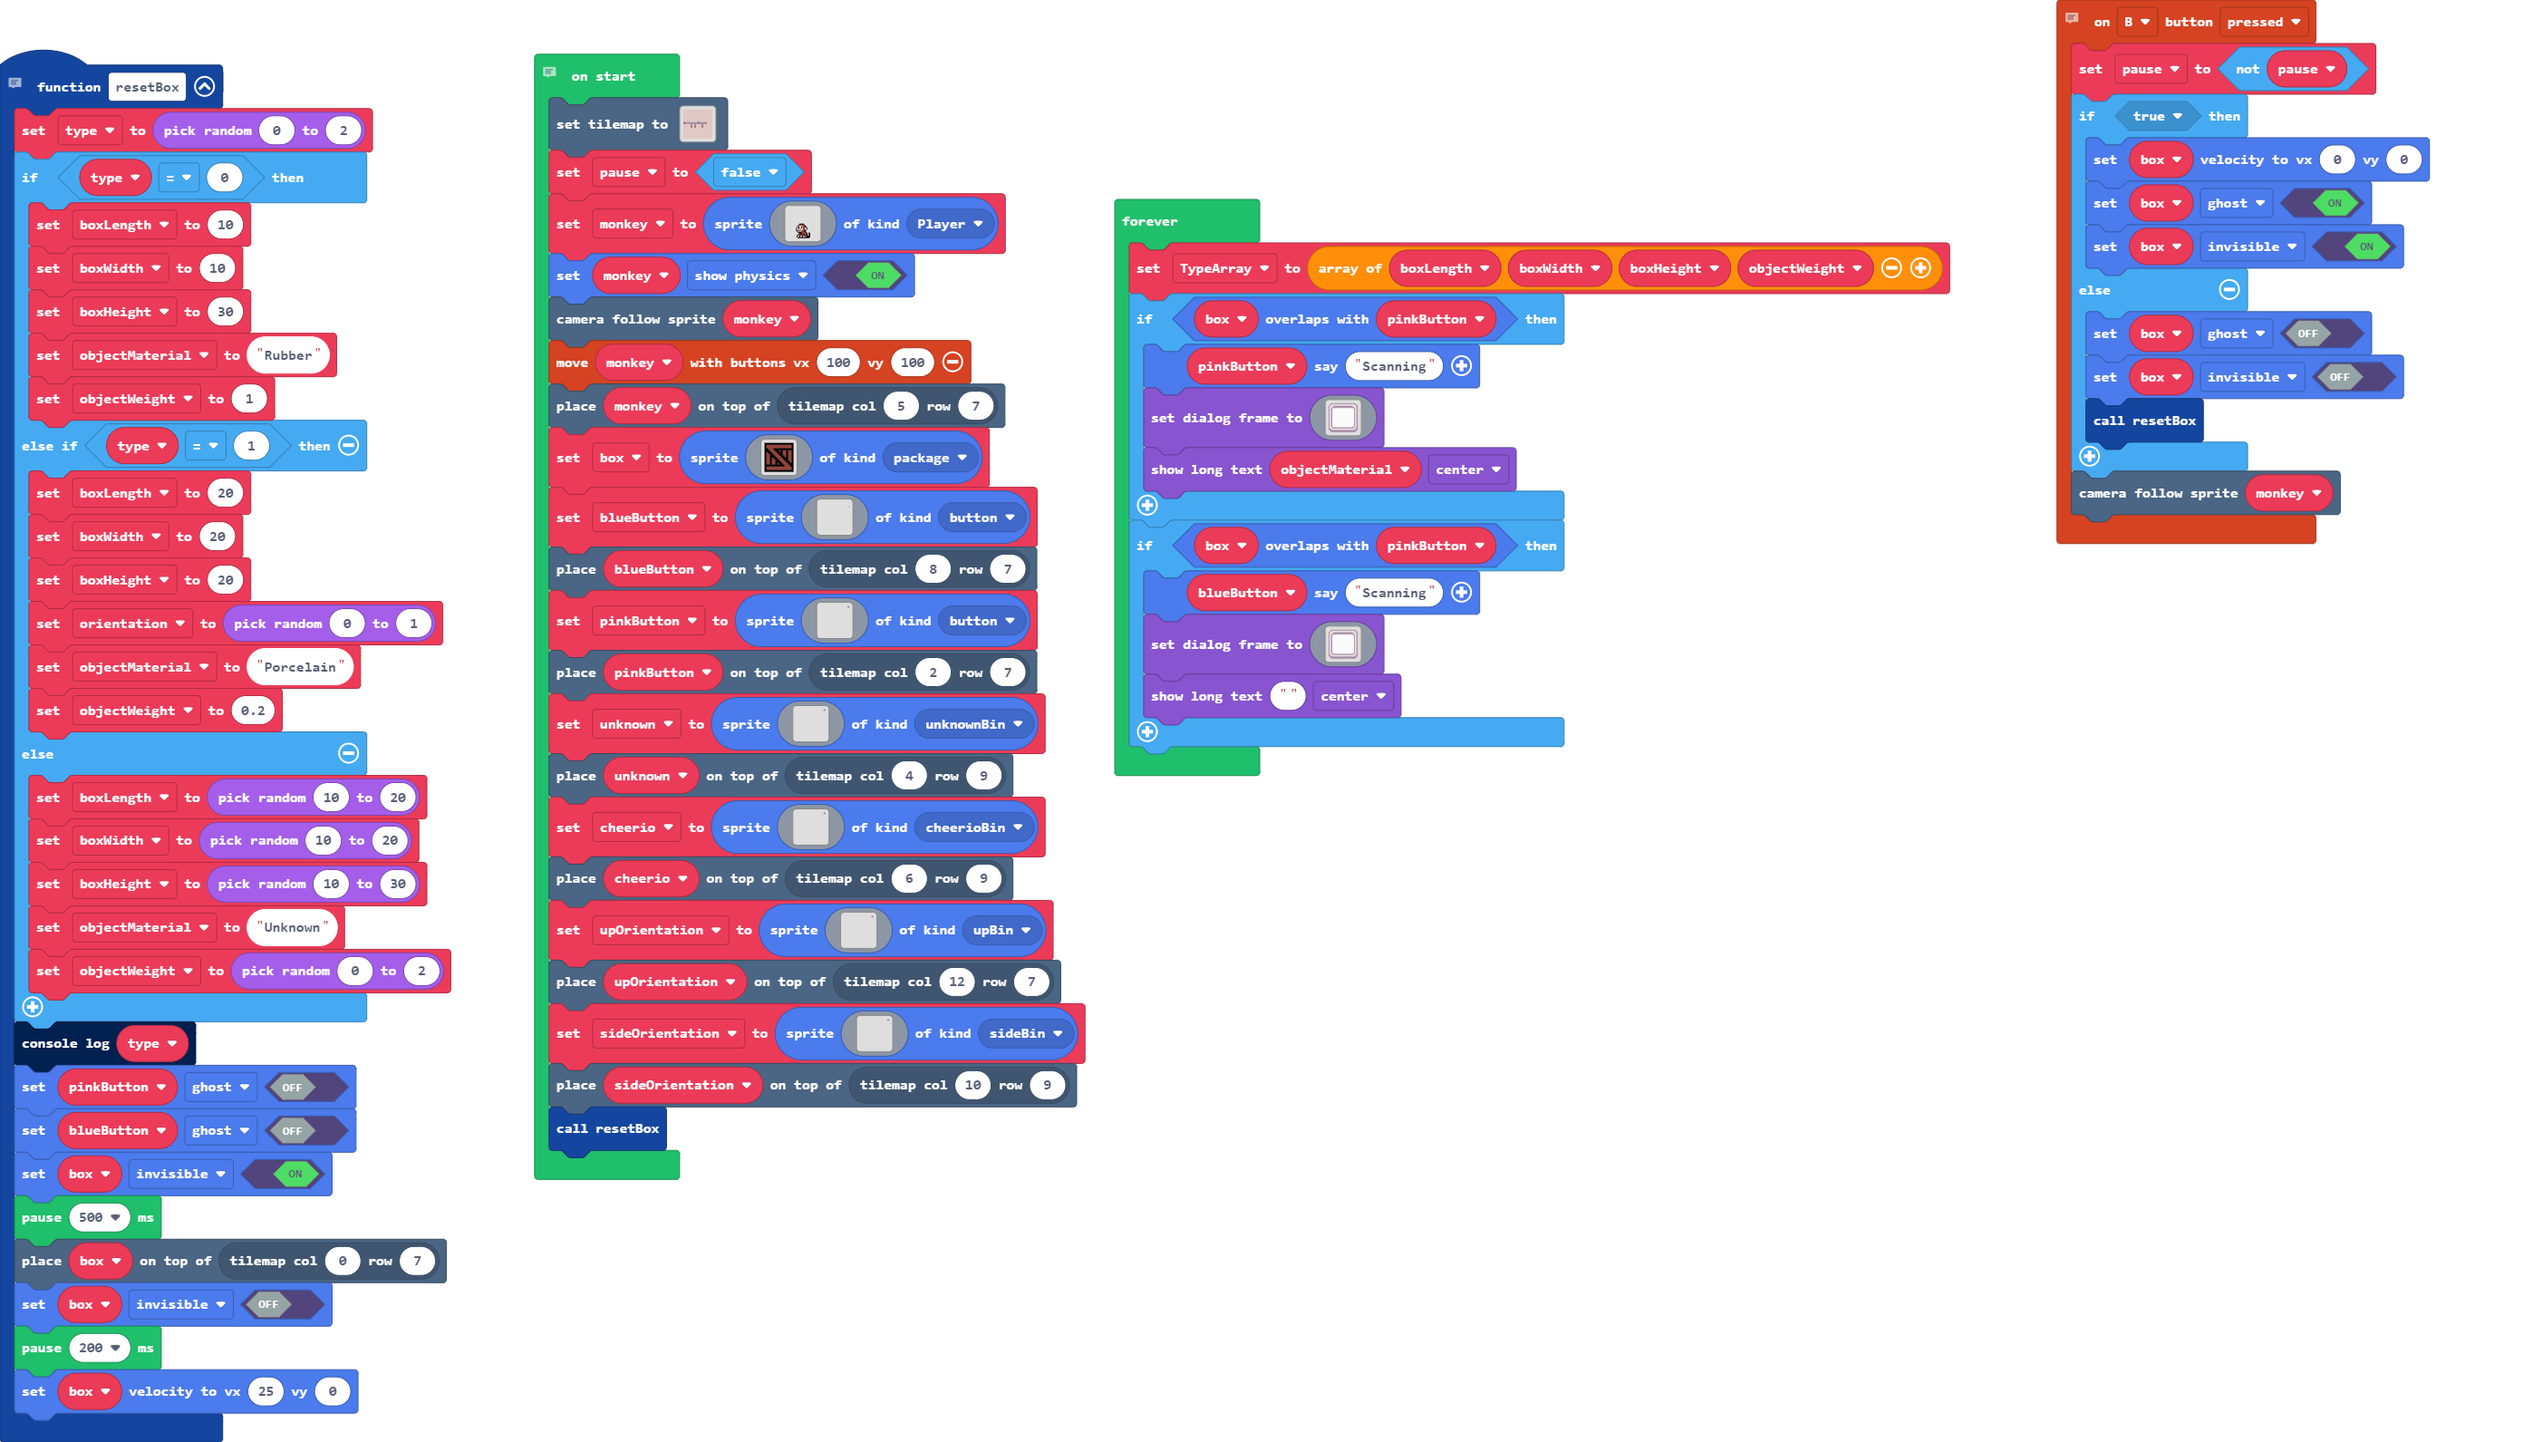
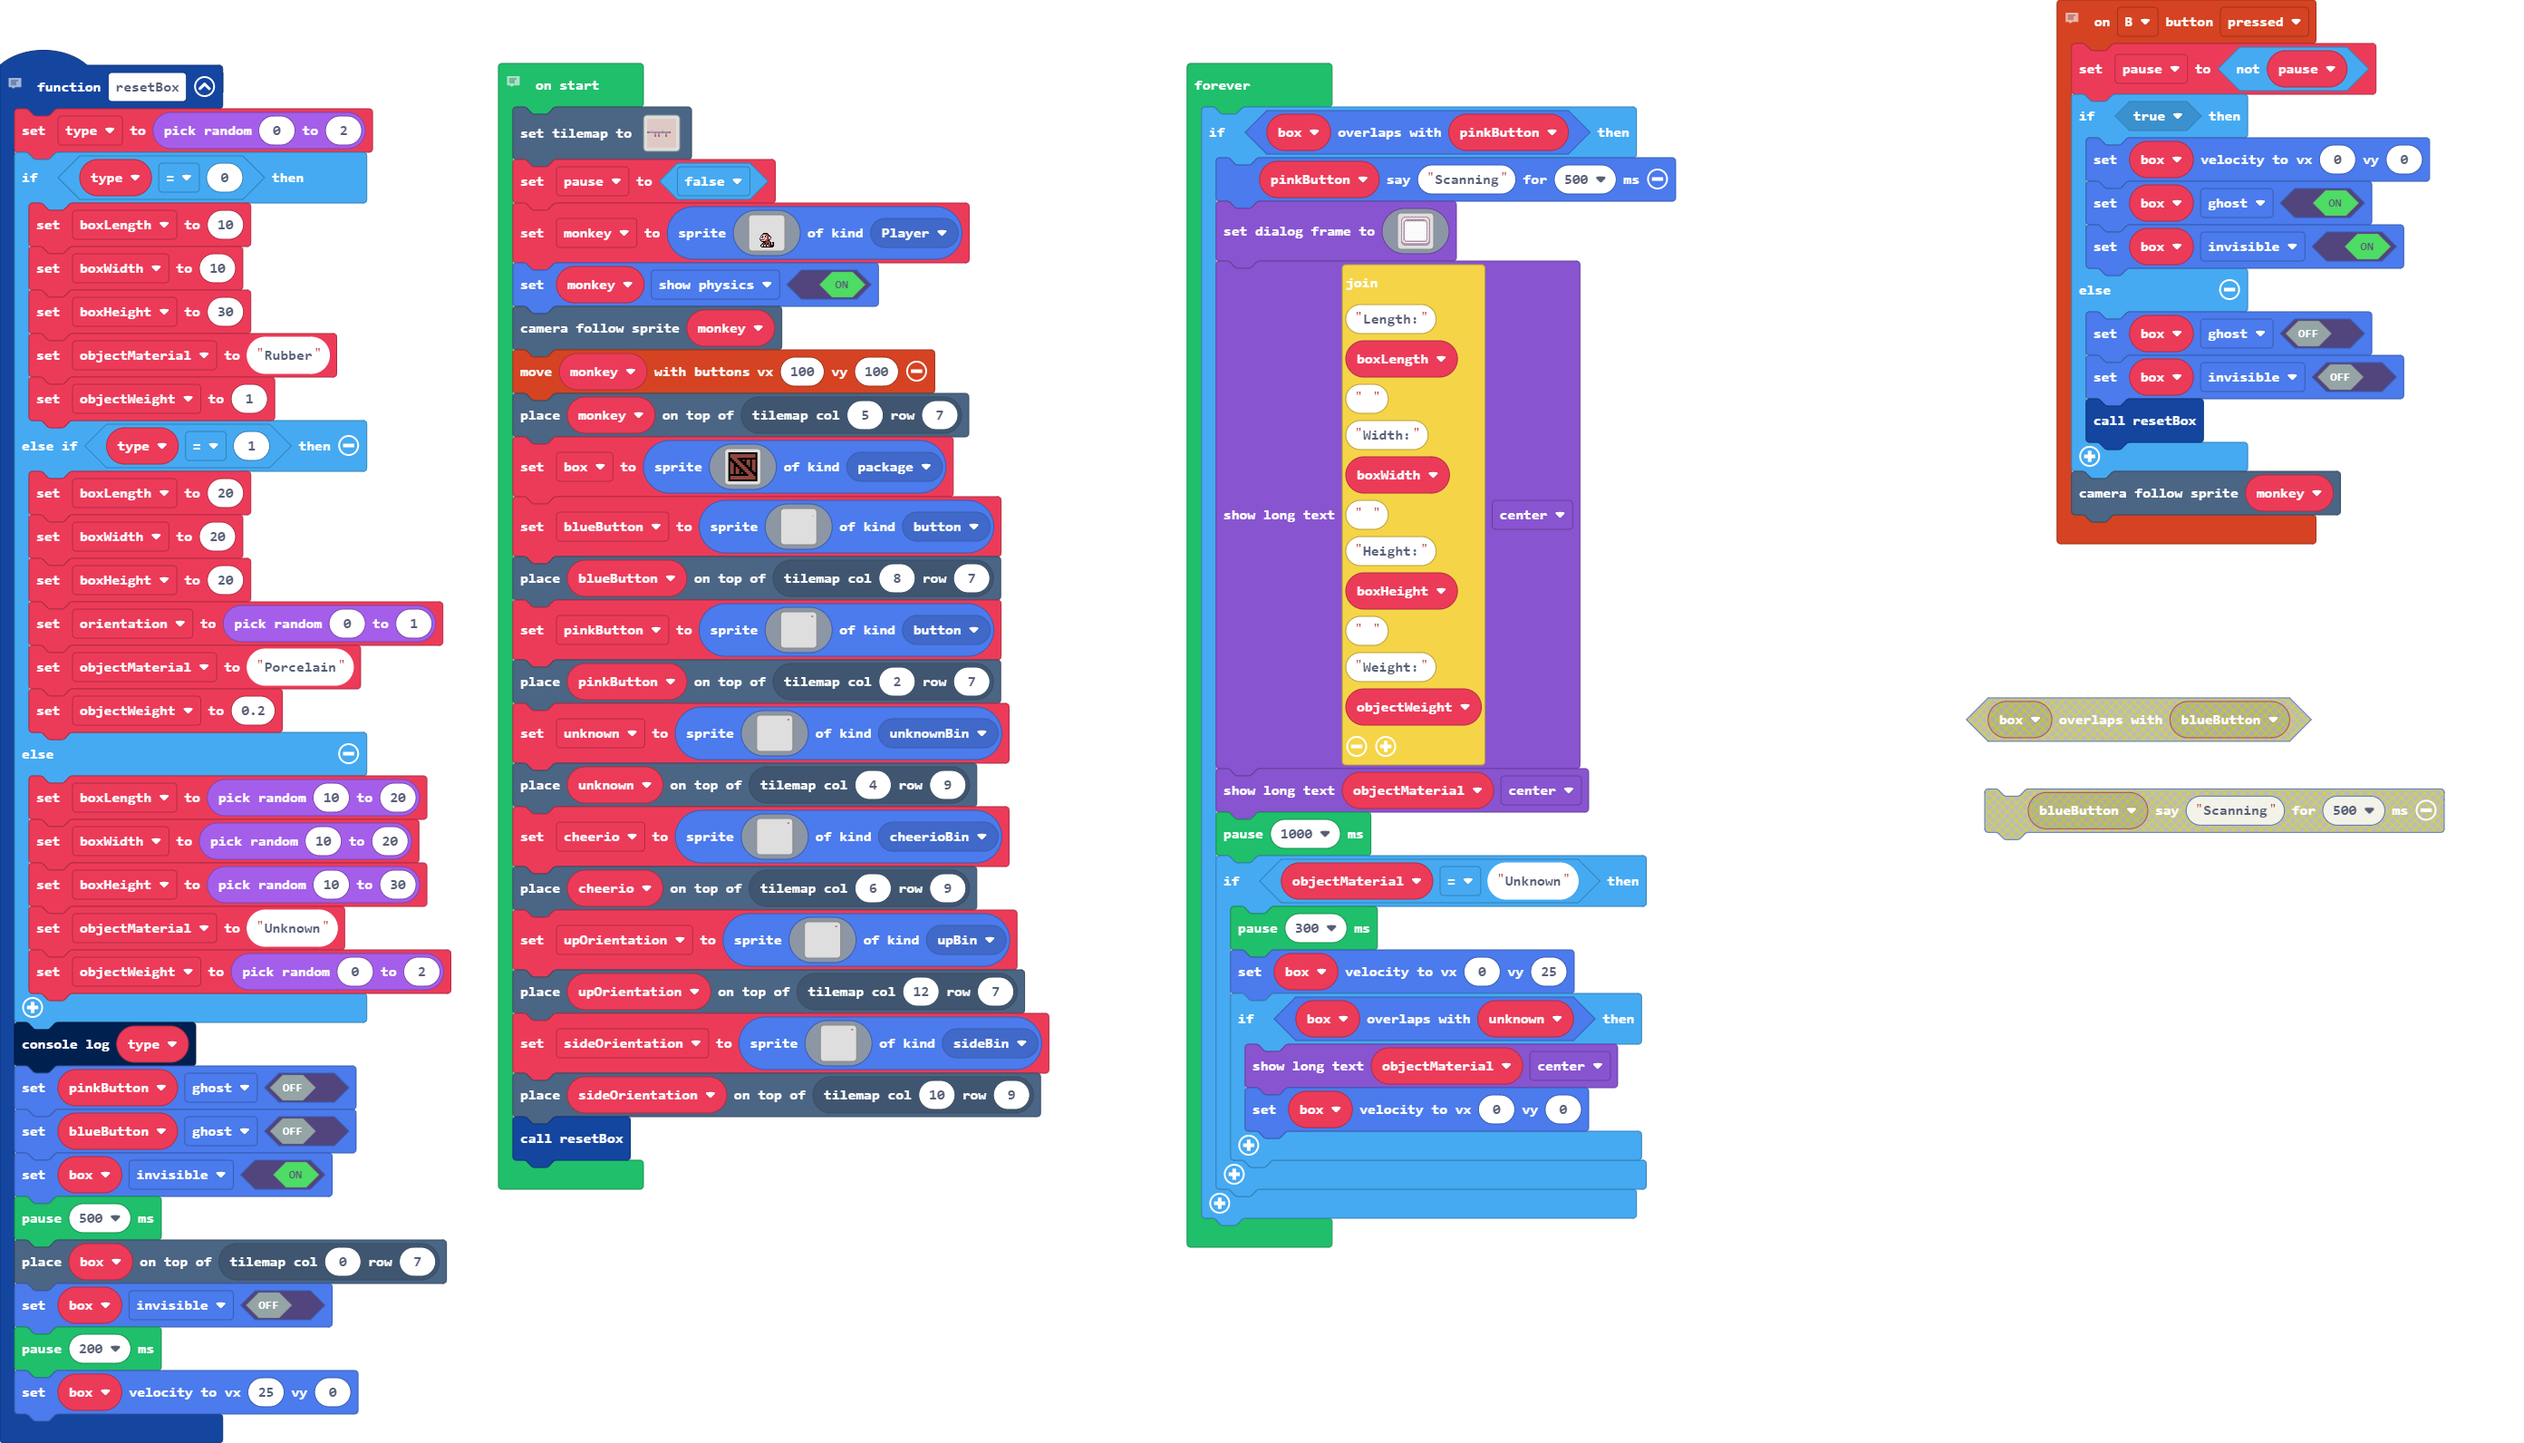
Update main.blocks, main.ts

diff --git a/main.ts b/main.ts
@@ -56,7 +56,6 @@ function resetBox () {
     box.setVelocity(25, 0)
 }
 // Create and place game map and objects
-let TypeArray: number[] = []
 let orientation = 0
 let objectWeight = 0
 let objectMaterial = ""
@@ -268,9 +267,8 @@ let sideOrientation = sprites.create(img`
 tiles.placeOnTile(sideOrientation, tiles.getTileLocation(10, 9))
 resetBox()
 forever(function () {
-    TypeArray = [boxLength, boxWidth, boxHeight, objectWeight]
     if (box.overlapsWith(pinkButton)) {
-        pinkButton.say("Scanning")
+        pinkButton.say("Scanning", 500)
         game.setDialogFrame(img`
             ..bbbbbbbbbbbbbbbbbbbb..
             .bd111111111111111111db.
@@ -297,36 +295,16 @@ forever(function () {
             .bbbbbbbbbbbbbbbbbbbbbb.
             ..bbbbbbbbbbbbbbbbbbbb..
             `)
+        game.showLongText("Length:" + boxLength + " " + "Width:" + boxWidth + " " + "Height:" + boxHeight + " " + "Weight:" + objectWeight, DialogLayout.Center)
         game.showLongText(objectMaterial, DialogLayout.Center)
-    }
-    if (box.overlapsWith(pinkButton)) {
-        blueButton.say("Scanning")
-        game.setDialogFrame(img`
-            ..bbbbbbbbbbbbbbbbbbbb..
-            .bd111111111111111111db.
-            bd1dbbbbbbbbbbbbbbbbd1db
-            b1dbbbbbbbbbbbbbbbbbbd1b
-            b1bd1111111111111111db1b
-            b1b111111111111111111b1b
-            b1b111111111111111111b1b
-            b1b111111111111111111b1b
-            b1b111111111111111111b1b
-            b1b111111111111111111b1b
-            b1b111111111111111111b1b
-            b1b111111111111111111b1b
-            b1b111111111111111111b1b
-            b1b111111111111111111b1b
-            b1b111111111111111111b1b
-            b1b111111111111111111b1b
-            b1b111111111111111111b1b
-            b1b111111111111111111b1b
-            b1b111111111111111111b1b
-            b1bd1111111111111111db1b
-            bd1bbbbbbbbbbbbbbbbbb1db
-            bbd111111111111111111dbb
-            .bbbbbbbbbbbbbbbbbbbbbb.
-            ..bbbbbbbbbbbbbbbbbbbb..
-            `)
-        game.showLongText("", DialogLayout.Center)
+        pause(1000)
+        if (objectMaterial == "Unknown") {
+            pause(300)
+            box.setVelocity(0, 25)
+            if (box.overlapsWith(unknown)) {
+                game.showLongText(objectMaterial, DialogLayout.Center)
+                box.setVelocity(0, 0)
+            }
+        }
     }
 })
